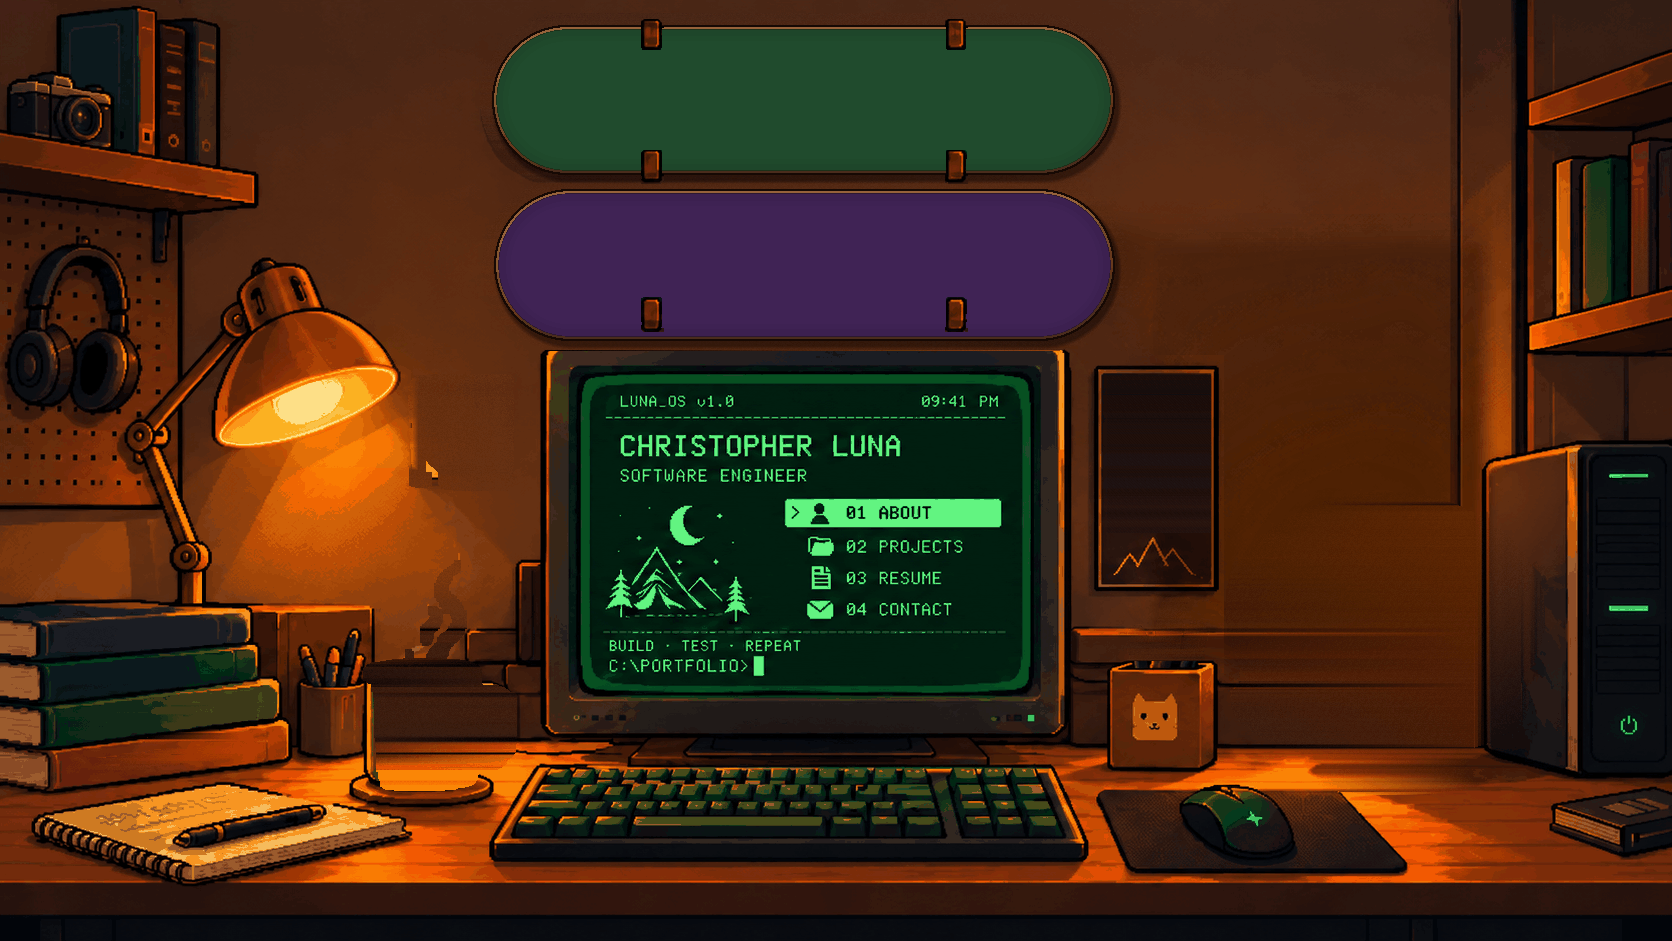
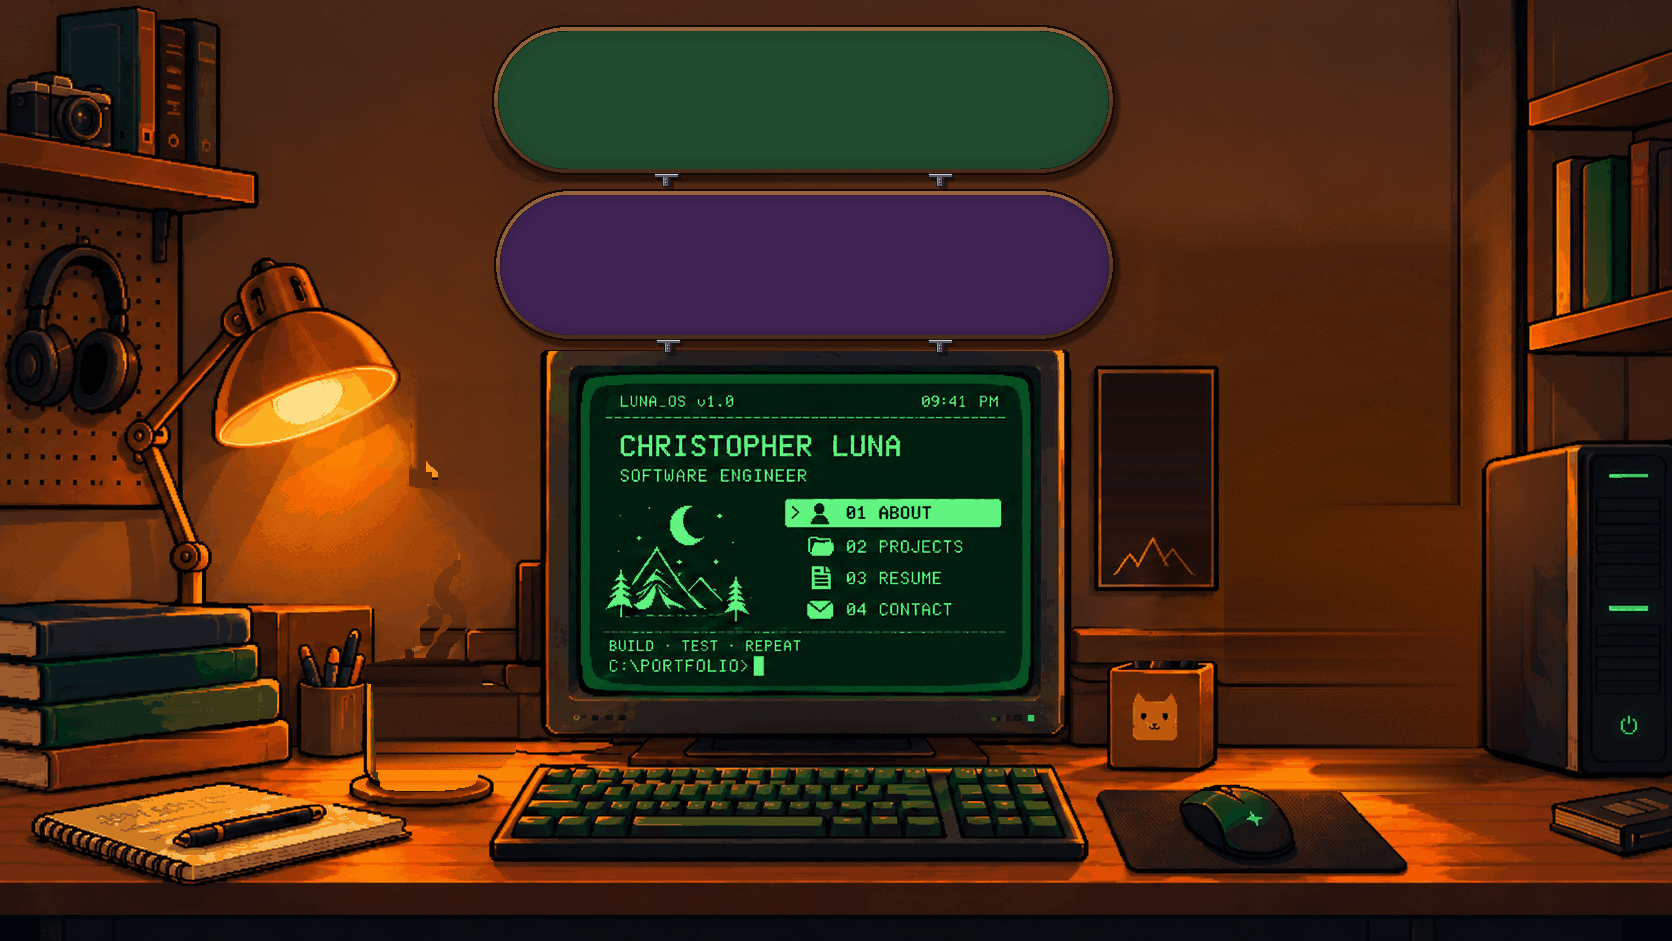
Contact card on the desk computer, details on the name deck, steel brackets
- The top deck carries a small line under the name: Anaheim, CA 92806, email
  and phone, in the same face as the name.
- CONTACT.EXE on the v2 computer is a business card (name, title, place,
  email, phone, GitHub as links) instead of a message form. v1 is unchanged.
- Each deck rests on two steel L-brackets under its bottom edge in place of
  the painted blocks, and its wood edge is a little thicker.

diff --git a/scripts/cinema-blend.js b/scripts/cinema-blend.js
@@ -173,12 +173,11 @@ const savePng = (buf, w, h, ch, file) => sharp(buf, { raw: { width: w, height: h
   // decks: each lettering box is filled down its columns from the face just above and below it
   const block = (boxes) => { const m = new Uint8Array(W * H); for (const [x0, y0, x1, y1] of boxes) for (let y = y0; y <= y1; y++) for (let x = x0; x <= x1; x++) m[y * W + x] = 1; return m; };
   for (const [x0, y0, x1, y1] of [[596, 82, 998, 130], [634, 217, 994, 253]]) fill(img, block([[x0, y0, x1, y1]]), [x0, y0 - 4, x1, y1 + 4], 'col', 19);
-  // the decks' painted rims wander (ragged edges, a gap at the nose, drips by the brackets), so each
-  // deck is redrawn from its outline's box as a clean stadium: dark outline, a thin wood line lit along
-  // the top and shaded under, the flat face, a soft shadow on the wall; the brackets go back on top
+  // the decks' painted rims wander (ragged edges, a gap at the nose, drips by the blocks), so each
+  // deck is redrawn from its outline's box as a clean stadium: dark outline, a thin wood edge lit along
+  // the top and shaded under, the flat face, a soft shadow on the wall; it rests on two steel brackets
   {
     const DECKS = [{ box: [492, 25, 1114, 175] }, { box: [494, 189, 1114, 341] }];
-    const BRACKETS = [641, 945].flatMap(x => [[19, 50], [150, 183], [297, 331]].map(([y0, y1]) => [x, y0, x + 22, y1]));
     const src = Buffer.from(img);
     for (const d of DECKS) {
       const [x0, y0, x1, y1] = d.box, cy = (y0 + y1) / 2, R = (y1 - y0) / 2;
@@ -193,7 +192,6 @@ const savePng = (buf, w, h, ch, file) => sharp(buf, { raw: { width: w, height: h
       d.face = [k >> 16, (k >> 8) & 255, k & 255];
     }
     const RX0 = 470, RY0 = 10, RX1 = 1140, RY1 = 350;
-    const inBracket = (x, y) => BRACKETS.some(([a, b, c, e]) => x >= a && x <= c && y >= b && y <= e);
     // 1. the wall behind each deck and wherever its old rim and drips reached, rebuilt across from the
     //    wall either side (the decks are drawn over it after, so none of the old rim leaks into the fill)
     const wallMask = new Uint8Array(W * H);
@@ -217,24 +215,42 @@ const savePng = (buf, w, h, ch, file) => sharp(buf, { raw: { width: w, height: h
         const t = -d.dist(x, y); if (t < 0) continue;
         let col;
         if (t < 2.2) col = LINE;
-        else if (t < 4.3) {
+        else if (t < 5.7) {
           // the edge faces outward: lit where it faces up-left, shaded where it faces down-right
           const [nx, ny] = d.normal(x, y), lit = -(nx * 0.35 + ny * 0.94);
           col = lit > 0 ? mix(RIM, RIM_LIT, Math.min(1, lit * 1.3)) : mix(RIM, RIM_SHADE, Math.min(1, -lit * 1.2));
-        } else if (t < 5.1) col = mix(d.face, LINE, 0.45);
-        else col = mix(d.face, [0, 0, 0], 0.08 * Math.max(0, 1 - (t - 5.1) / 14));
+        } else if (t < 6.5) col = mix(d.face, LINE, 0.45);
+        else col = mix(d.face, [0, 0, 0], 0.08 * Math.max(0, 1 - (t - 6.5) / 14));
         const i = (y * W + x) * 3;
         for (let c = 0; c < 3; c++) img[i + c] = Math.round(col[c]);
       }
     }
-    // 4. the brackets, back on top: each one's outline and what it encloses
-    for (const [a, b, c, e] of BRACKETS) {
-      const inner = enclosed(src, [a - 2, b - 2, c + 2, e + 2], 30), keep = dilate(inner, 2);
-      for (let y = b - 2; y <= e + 2; y++) for (let x = a - 2; x <= c + 2; x++) {
-        const i = y * W + x; if (!keep[i] || !inBracket(x, y)) continue;
-        // round the edge, only the bracket's own dark outline: not the old rim beside it
-        if (!inner[i] && lum(src, i) > 40) continue;
-        for (let k = 0; k < 3; k++) img[i * 3 + k] = src[i * 3 + k];
+    // 4. two steel L-brackets under each deck: a lip the deck sits on and a short strap down the wall,
+    //    two screws in it, a little shadow on the wall
+    const STEEL = [[18, 18, 22], [52, 52, 60], [92, 92, 102], [150, 150, 160], [206, 206, 214]];
+    const put = (x, y, col) => { const i = (y * W + x) * 3; for (let c = 0; c < 3; c++) img[i + c] = col[c]; };
+    const darken = (x, y, k) => { const i = (y * W + x) * 3; for (let c = 0; c < 3; c++) img[i + c] = Math.round(img[i + c] * k); };
+    for (const d of DECKS) {
+      const [x0, , x1, y1] = d.box;
+      for (const fx of [0.28, 0.72]) {
+        const cx = Math.round(x0 + (x1 - x0) * fx), lipTop = y1 - 2, lipBot = y1 + 2, strapBot = y1 + 11;
+        // shadow on the wall, down and right
+        for (let y = lipTop + 3; y <= strapBot + 3; y++) for (let x = cx - 9; x <= cx + 14; x++) {
+          const inLip = y <= lipBot + 3 && x >= cx - 9 && x <= cx + 14, inStrap = x >= cx - 1 && x <= cx + 7;
+          if ((inLip || inStrap) && DECKS.every(o => o.dist(x, y) > 0)) darken(x, y, 0.62);
+        }
+        // the lip under the deck's edge
+        for (let y = lipTop; y <= lipBot; y++) for (let x = cx - 12; x <= cx + 12; x++) {
+          const edge = y === lipTop || y === lipBot || x === cx - 12 || x === cx + 12;
+          put(x, y, edge ? STEEL[0] : y === lipTop + 1 ? STEEL[4] : STEEL[2]);
+        }
+        // the strap down the wall
+        for (let y = lipBot; y <= strapBot; y++) for (let x = cx - 4; x <= cx + 4; x++) {
+          const edge = x === cx - 4 || x === cx + 4 || y === strapBot;
+          put(x, y, edge ? STEEL[0] : x === cx - 3 ? STEEL[3] : x >= cx + 2 ? STEEL[1] : STEEL[2]);
+        }
+        // two screws
+        for (const sy of [lipBot + 3, strapBot - 3]) { put(cx, sy, STEEL[0]); put(cx - 1, sy - 1, STEEL[4]); }
       }
     }
   }

diff --git a/components/cinema/ContactCard.tsx b/components/cinema/ContactCard.tsx
@@ -1,0 +1,45 @@
+"use client";
+
+import RetroWindow from "@/components/monitor/RetroWindow";
+
+/** How to reach me, one row each. A row without a link (an account not added yet) isn't shown. */
+const ROWS: { label: string; value: string; href: string | null }[] = [
+  { label: "EMAIL", value: "Luna_Christopher98@hotmail.com", href: "mailto:Luna_Christopher98@hotmail.com" },
+  { label: "PHONE", value: "(714) 800-3264", href: "tel:+17148003264" },
+  { label: "GITHUB", value: "github.com/lunastoic", href: "https://github.com/lunastoic" },
+  { label: "X", value: "", href: null },
+  { label: "LINKEDIN", value: "", href: null },
+];
+
+/**
+ * CONTACT.EXE on the desk's computer: a business card, not a form. Name and title up top,
+ * where I am, then each way to reach me as a link.
+ */
+export default function ContactCard({ onClose }: { onClose: () => void }) {
+  return (
+    <RetroWindow title="CONTACT.EXE" onClose={onClose}>
+      <div className="app-content lofi-card">
+        <div className="lofi-card__head">
+          <p className="lofi-card__name">CHRISTOPHER LUNA</p>
+          <p className="lofi-card__title">SOFTWARE ENGINEER</p>
+          <p className="lofi-card__place">ANAHEIM, CA 92806</p>
+        </div>
+        <dl className="lofi-card__rows">
+          {ROWS.filter((r) => r.href).map((r) => (
+            <div key={r.label} className="lofi-card__row">
+              <dt>{r.label}</dt>
+              <dd>
+                <a
+                  href={r.href!}
+                  {...(r.href!.startsWith("http") ? { target: "_blank", rel: "noreferrer" } : {})}
+                >
+                  {r.value}
+                </a>
+              </dd>
+            </div>
+          ))}
+        </dl>
+      </div>
+    </RetroWindow>
+  );
+}

diff --git a/components/cinema/cinema.css b/components/cinema/cinema.css
@@ -460,6 +460,72 @@ body:has(.cinema) .crt-flicker {
   margin: 0.3em 0;
 }
 
+/* CONTACT.EXE on the desk's computer: a business card */
+.lofi-card {
+  display: flex;
+  flex-direction: column;
+  gap: 1.1em;
+  padding: 0.4em 0.2em;
+}
+
+.lofi-card__head {
+  padding-bottom: 0.8em;
+  border-bottom: 2px dashed var(--green-dim);
+}
+
+.lofi-card__name {
+  margin: 0;
+  font-size: 1.7em;
+  font-weight: 700;
+  letter-spacing: 0.02em;
+  color: #b9f7a4;
+}
+
+.lofi-card__title,
+.lofi-card__place {
+  margin: 0.2em 0 0;
+  letter-spacing: 0.08em;
+}
+
+.lofi-card__place {
+  color: var(--green-mid);
+}
+
+.lofi-card__rows {
+  display: grid;
+  gap: 0.45em;
+  margin: 0;
+}
+
+.lofi-card__row {
+  display: grid;
+  grid-template-columns: 6.5em 1fr;
+  align-items: baseline;
+  gap: 0.6em;
+}
+
+.lofi-card__row dt {
+  letter-spacing: 0.1em;
+  color: var(--green-mid);
+}
+
+.lofi-card__row dd {
+  margin: 0;
+  min-width: 0;
+  overflow-wrap: anywhere;
+}
+
+.lofi-card__row a {
+  color: var(--lofi-text);
+  text-decoration: underline;
+  text-underline-offset: 0.2em;
+}
+
+.lofi-card__row a:hover,
+.lofi-card__row a:focus-visible {
+  color: #c8ffb6;
+}
+
 /* ASCII art and code-ish blocks stay on the monospace terminal face */
 .lofi pre,
 .lofi .cursor-blink {

diff --git a/components/cinema/LofiOS.tsx b/components/cinema/LofiOS.tsx
@@ -6,7 +6,7 @@ import type { AppId } from "@/components/types";
 import AboutWindow from "@/components/monitor/AboutWindow";
 import ProjectsWindow from "@/components/monitor/ProjectsWindow";
 import ResumeWindow from "@/components/monitor/ResumeWindow";
-import ContactWindow from "@/components/monitor/ContactWindow";
+import ContactCard from "./ContactCard";
 import CoffeeWindow from "@/components/monitor/CoffeeWindow";
 import manifest from "../../public/cinema/manifest.json";
 import PixelIcon, { type IconName } from "./PixelIcon";
@@ -133,7 +133,7 @@ export default function LofiOS({
           {activeApp === "about" && <AboutWindow onClose={close} />}
           {activeApp === "projects" && <ProjectsWindow onClose={close} />}
           {activeApp === "resume" && <ResumeWindow onClose={close} />}
-          {activeApp === "contact" && <ContactWindow onClose={close} />}
+          {activeApp === "contact" && <ContactCard onClose={close} />}
         </div>
       )}
 

diff --git a/components/cinema/CinemaScene.tsx b/components/cinema/CinemaScene.tsx
@@ -115,7 +115,11 @@ interface WallText {
   leading?: number;
 }
 const WALL_TEXT: WallText[] = [
-  { lines: ["CHRISTOPHER LUNA"], x: 796, y: 106, size: 40, color: "#f6bb5c", weight: 700, track: 0.06 },
+  { lines: ["CHRISTOPHER LUNA"], x: 803, y: 92, size: 40, color: "#f6bb5c", weight: 700, track: 0.06 },
+  {
+    lines: ["ANAHEIM, CA 92806  ·  LUNA_CHRISTOPHER98@HOTMAIL.COM  ·  (714) 800-3264"],
+    x: 803, y: 128, size: 11.5, color: "#e9b468", weight: 500, track: 0.05,
+  },
   { lines: ["SOFTWARE ENGINEER"], x: 814, y: 235, size: 25, color: "#eb9a4c", weight: 600, track: 0.3 },
   {
     lines: ["MAKE IT", "WORK.", "MAKE IT", "RIGHT.", "MAKE IT", "FAST."],
